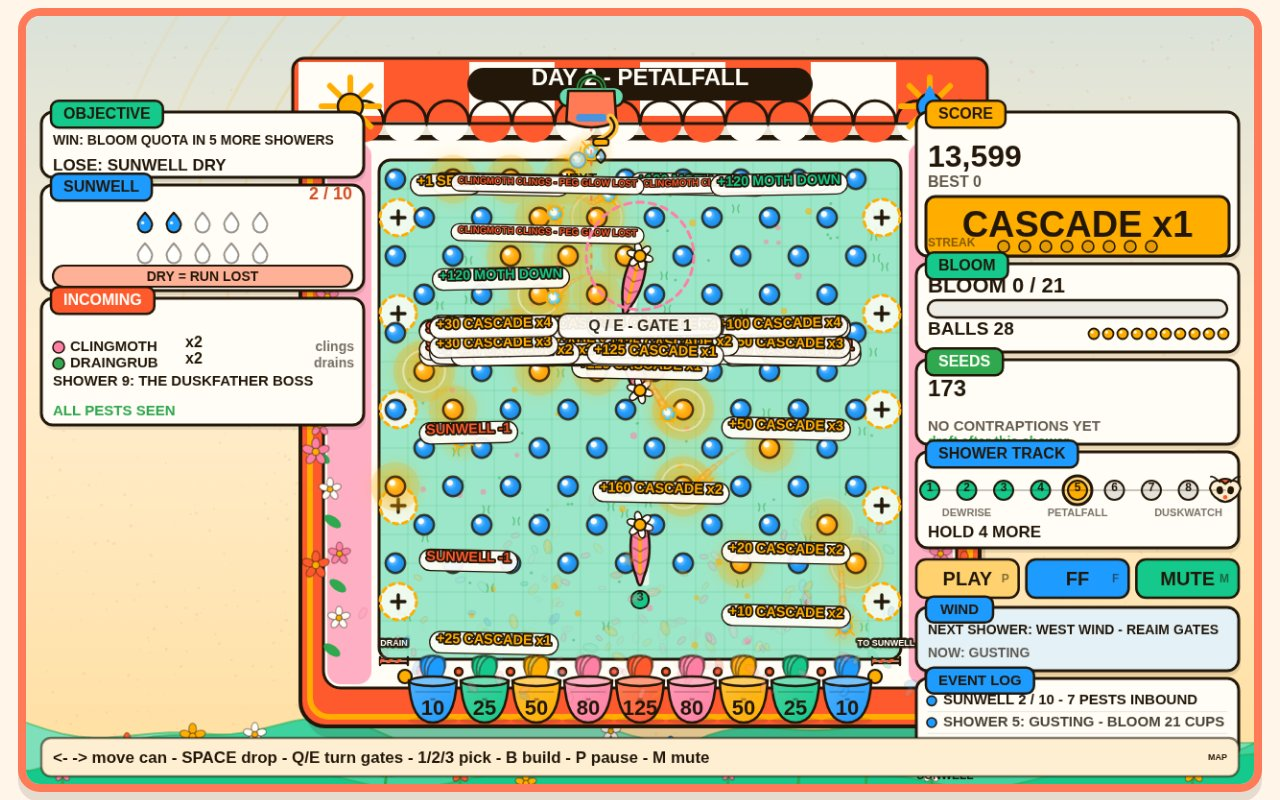
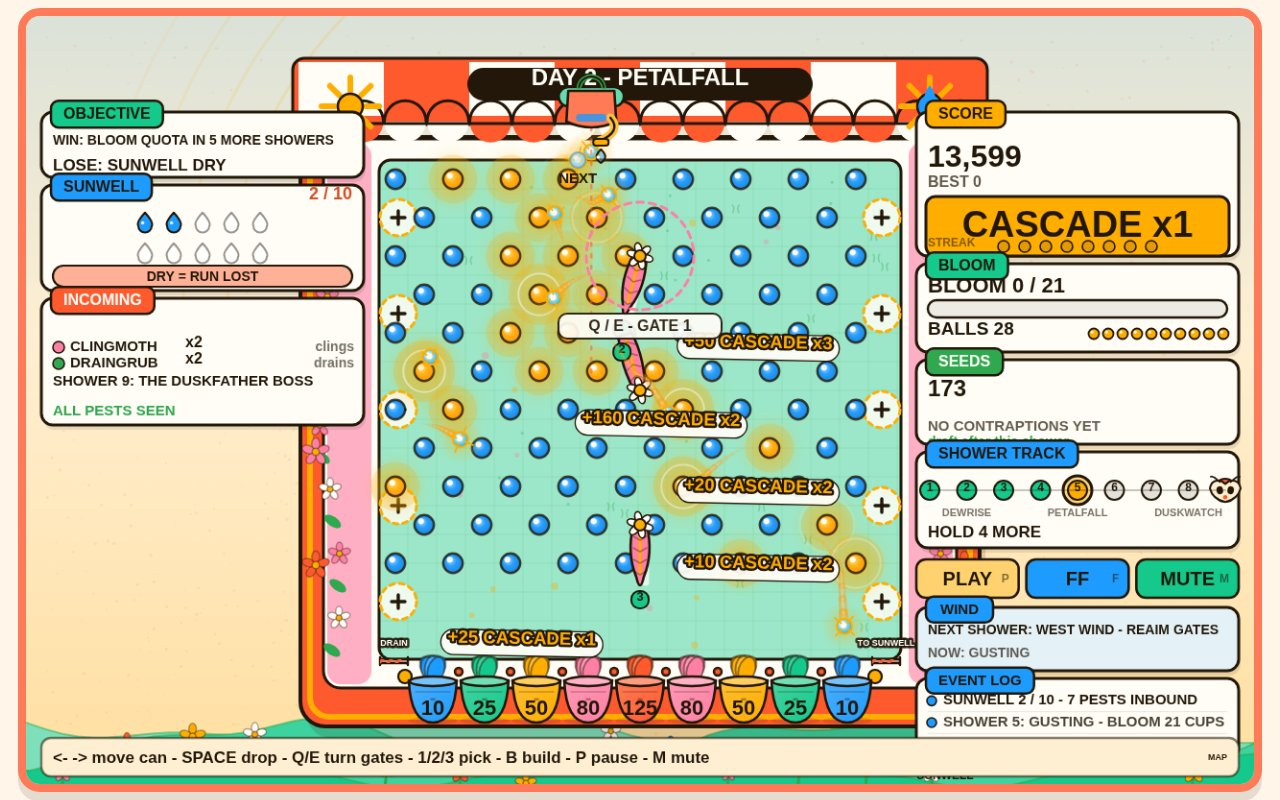
legibility fix round 2: floater cap 5 + priority, bigger on-board type, shorter display texts, thinned flecks

diff --git a/game/src/render/fx.js b/game/src/render/fx.js
@@ -6,6 +6,11 @@
   const H = 800;
   const MAX_PARTICLES = 320;
   const FLOATER_LIFE = 68;
+  // Legibility cap (fix round 2): never more than this many floater pills on
+  // the board at once. A cascade can emit a dozen events inside a second;
+  // drawing them all tiles the field with pills that shrink to pure noise at
+  // contact-sheet size - the exact complaint of three blind panels.
+  const MAX_FLOATERS_SHOWN = 5;
   const BLOOM_LIFE = 54;
   const SPARK_LIFE = 26;
   const RING_LIFE = 30;
@@ -70,22 +75,38 @@
     return f ? { x: f.x, y: f.y, w: f.w, h: f.h } : { x: 368, y: 150, w: 544, h: 520 };
   }
 
+  // Display-only shortening: the sim's event strings stay untouched in the
+  // log and the save; only the pill on the board compresses the long ones,
+  // because a 30-character pill at contact-sheet size is noise, not news.
+  function displayText(str) {
+    let s = String(str == null ? '' : str);
+    const cling = s.indexOf(' CLINGS - ');
+    if (cling >= 0) s = s.slice(cling + ' CLINGS - '.length);
+    if (s.indexOf('DRAINGRUB +1 SWALLOWED - ') === 0) s = 'LOST - ' + s.slice('DRAINGRUB +1 SWALLOWED - '.length);
+    if (s === 'MOSS CUSHION SAVED A DROP') s = 'CUSHION SAVE';
+    else if (s === 'SPRING PAD SAVED A DROP') s = 'PAD SAVE';
+    else if (s === 'DUSKFATHER SHEDS A MOTH') s = 'MOTH SHED';
+    return s;
+  }
+
   // One floater's natural layout: where it wants to sit before separation.
   function floaterLayout(ctx, item, age, t, tick) {
     const p = palette();
     const kind = item.colour || 'gold';
     const fill = p[kind] || (kind === 'ink' ? p.ink : kind);
-    const size = item.big ? 36 : 24;
+    // Fix round 2: minimum on-board type raised (24 -> 31, big 36 -> 48, fit
+    // floors 16/24 -> 22/32) so a pill still reads at contact-sheet scale.
+    const size = item.big ? 48 : 31;
     const si = num(item.seedIndex, 0);
     const rise = 46 * (1 - Math.pow(1 - t, 2)) * (0.85 + (si % 3) * 0.15);
     const bob = Math.sin(tick * 0.09 + age * 0.3) * 1.6;
     const x = num(item.x, W * 0.5) + (((si * 37) % 5) - 2) * 16;
     const y = num(item.y, H * 0.5) + 22 - rise + bob - (si % 3) * (item.big ? 30 : 20);
-    const str = String(item.text == null ? '' : item.text);
+    const str = displayText(item.text);
     const fit = helper('fitText');
-    const maxW = item.big ? 560 : 330;
+    const maxW = item.big ? 660 : 440;
     let s = size;
-    if (fit) s = fit(ctx, str, maxW, size, item.big ? 24 : 16);
+    if (fit) s = fit(ctx, str, maxW, size, item.big ? 32 : 22);
     const meas = helper('measure');
     const w = meas ? meas(ctx, str, s, 'bold') : str.length * s * 0.55;
     return { x: x, y: y, size: s, w: w, str: str, fill: fill };
@@ -477,6 +498,10 @@
     const tick = num(sim && sim.tick, 0);
     const f = fieldRect();
     const placed = [];
+    // Collect the live floaters, then apply the legibility cap: big events
+    // first, then the freshest. Selection is a total order over render data
+    // only (never the sim), so a frozen frame is byte-stable across runs.
+    const active = [];
     for (let i = 0; i < floatQueue.length; i += 1) {
       const item = floatQueue[i];
       const age = tick - item.born;
@@ -485,6 +510,19 @@
         delete item._ly;
         continue;
       }
+      active.push(item);
+    }
+    let shown = active;
+    if (active.length > MAX_FLOATERS_SHOWN) {
+      shown = active.slice().sort(function (a, b) {
+        if (!!b.big !== !!a.big) return b.big ? 1 : -1;
+        if (b.born !== a.born) return b.born - a.born;
+        return a.seedIndex - b.seedIndex;
+      }).slice(0, MAX_FLOATERS_SHOWN);
+    }
+    for (let i = 0; i < shown.length; i += 1) {
+      const item = shown[i];
+      const age = tick - item.born;
       const t = age / FLOATER_LIFE;
       const L = floaterLayout(ctx, item, age, t, tick);
       const pillW = L.w + 24;

diff --git a/game/src/render/board.js b/game/src/render/board.js
@@ -521,7 +521,7 @@
     ctx.beginPath();
     roundRectPath(ctx, f.x + 2, f.y + 2, f.w - 4, f.h - 4, 10);
     ctx.clip();
-    ctx.strokeStyle = rgba(p.leaf, 0.2);
+    ctx.strokeStyle = rgba(p.leaf, 0.13);
     ctx.lineWidth = 1;
     for (let x = f.x + 30; x < f.x + f.w; x += 30) {
       ctx.beginPath();
@@ -537,18 +537,20 @@
     }
     // Garden texture in the gaps between pegs: deterministic flecks, buds and
     // grass blades from the same hash as the backdrop grain. Purely decorative;
-    // the sim neither knows nor cares that the bed is planted.
-    for (let i = 0; i < 130; i += 1) {
+    // the sim neither knows nor cares that the bed is planted. Fix round 2:
+    // thinned 130 -> 52 and softened - at contact-sheet size the full planting
+    // turned to grain that fought the pegs and pills for the eye.
+    for (let i = 0; i < 52; i += 1) {
       const dx = f.x + 12 + hash(i, 31) * (f.w - 24);
       const dy = f.y + 12 + hash(i, 57) * (f.h - 24);
       const kind = i % 3;
       if (kind === 0) {
         ctx.beginPath();
         ctx.arc(dx, dy, 2.2 + hash(i, 71) * 1.6, 0, Math.PI * 2);
-        ctx.fillStyle = rgba(i % 2 ? p.gold : p.pink, 0.55);
+        ctx.fillStyle = rgba(i % 2 ? p.gold : p.pink, 0.38);
         ctx.fill();
       } else if (kind === 1) {
-        ctx.strokeStyle = rgba(p.leaf, 0.5);
+        ctx.strokeStyle = rgba(p.leaf, 0.34);
         ctx.lineWidth = 1.6;
         ctx.beginPath();
         ctx.moveTo(dx - 3, dy + 3);
@@ -559,7 +561,7 @@
       } else {
         ctx.beginPath();
         ctx.arc(dx, dy, 1.5, 0, Math.PI * 2);
-        ctx.fillStyle = rgba(p.leaf, 0.45);
+        ctx.fillStyle = rgba(p.leaf, 0.32);
         ctx.fill();
       }
     }
